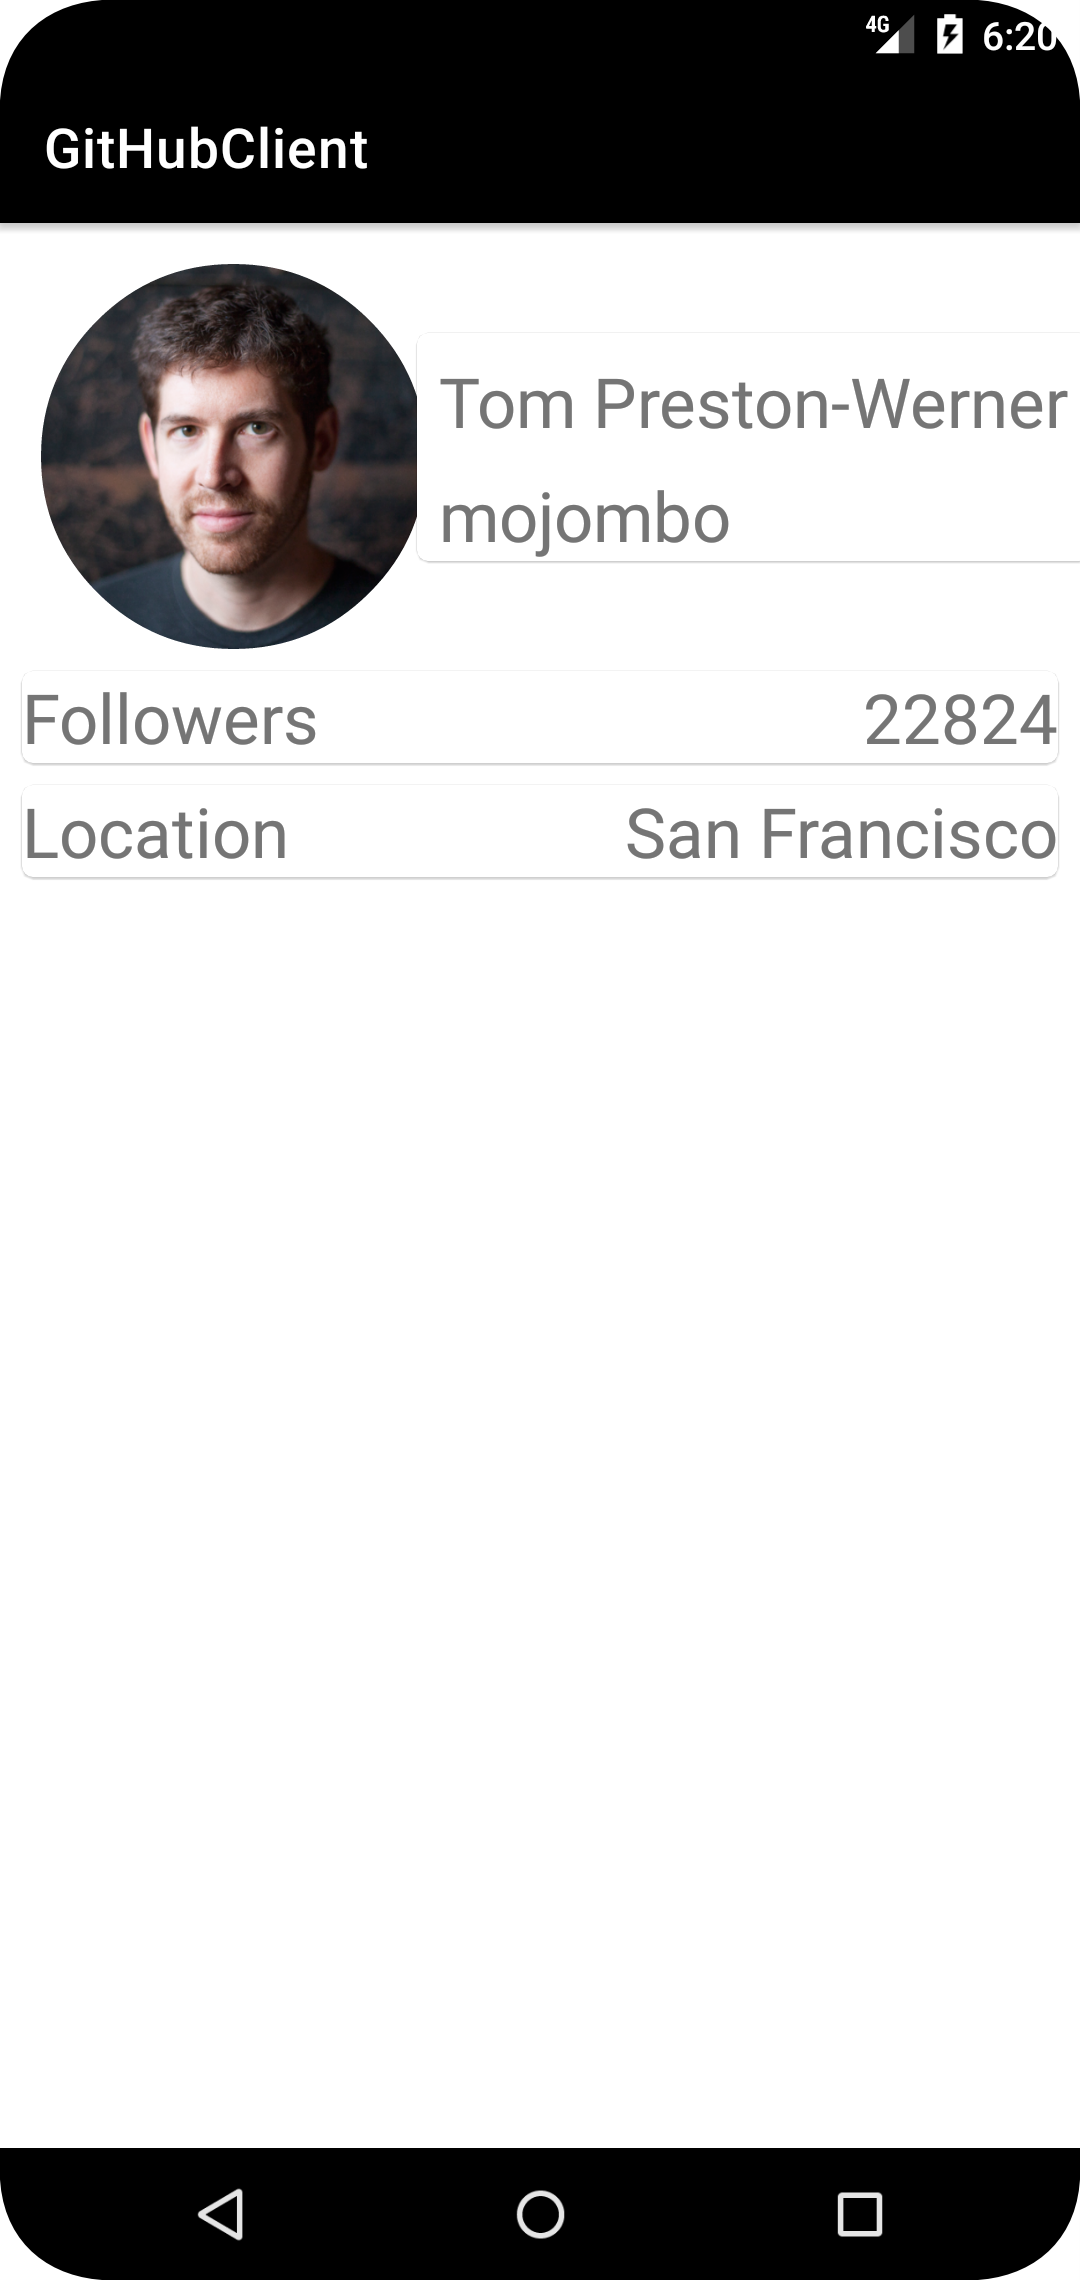
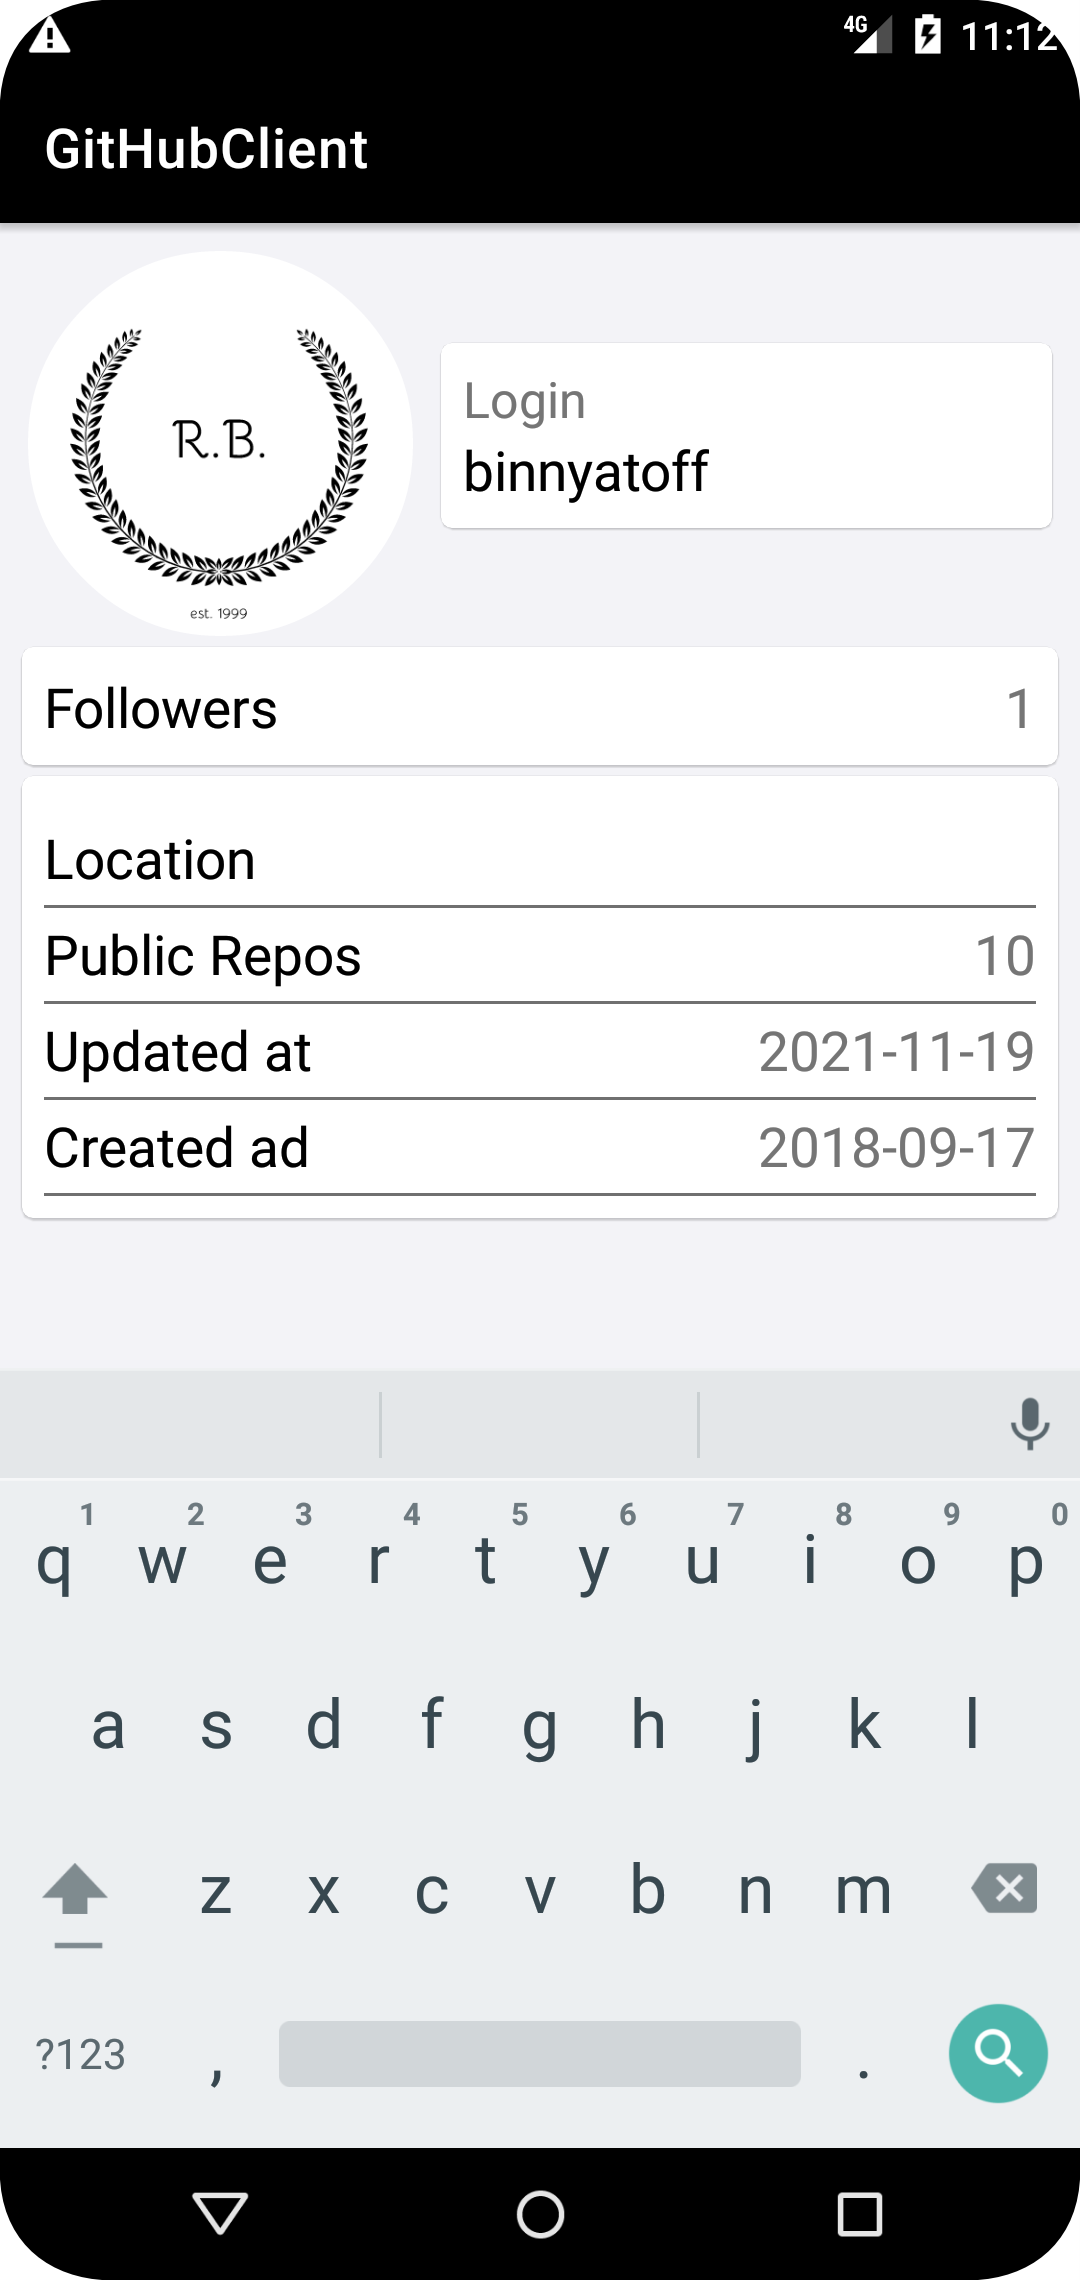
Added more information to UserDetailsFragment Added "ufo" - not found screen

diff --git a/app/src/main/java/ru/binnyatoff/githubclient/screens/feed/UsersFragment.kt b/app/src/main/java/ru/binnyatoff/githubclient/screens/feed/UsersFragment.kt
@@ -1,7 +1,6 @@
 package ru.binnyatoff.githubclient.screens.feed
 
 import android.os.Bundle
-import android.util.Log
 import android.view.*
 import android.widget.LinearLayout
 import androidx.fragment.app.Fragment
@@ -13,17 +12,17 @@ import androidx.navigation.fragment.findNavController
 import androidx.recyclerview.widget.LinearLayoutManager
 import androidx.recyclerview.widget.RecyclerView
 import dagger.hilt.android.AndroidEntryPoint
-import ru.binnyatoff.githubclient.models.User
+import ru.binnyatoff.githubclient.data.models.User
 import android.widget.SearchView
 import androidx.swiperefreshlayout.widget.SwipeRefreshLayout
 import ru.binnyatoff.githubclient.R
-import ru.binnyatoff.githubclient.screens.feed.adapter.UsersAdapter
-import ru.binnyatoff.githubclient.screens.feed.adapter.ClickDelegate
+import ru.binnyatoff.githubclient.screens.adapter.Adapter
+import ru.binnyatoff.githubclient.screens.adapter.ClickDelegate
 
 @AndroidEntryPoint
 class UsersFragment : Fragment(R.layout.fragment_users) {
     private val usersViewModel: UsersViewModel by viewModels()
-    private val adapter = UsersAdapter()
+    private val adapter = Adapter()
 
     override fun onViewCreated(view: View, savedInstanceState: Bundle?) {
         super.onViewCreated(view, savedInstanceState)
@@ -36,16 +35,18 @@ class UsersFragment : Fragment(R.layout.fragment_users) {
         swiper.setOnRefreshListener {
             usersViewModel.refreshUsers()
         }
-
-        observers(progressCircular, swiper, ufo)
         recyclerView(recyclerView)
+        observers(progressCircular, swiper, ufo, recyclerView)
     }
 
     private fun recyclerView(recyclerView: RecyclerView) {
         adapter.attachDelegate(object : ClickDelegate {
             override fun onClick(currentUser: User) {
                 val bundle = bundleOf("currentUser" to currentUser)
-                findNavController().navigate(R.id.action_UsersFragment_to_UserDetailFragment, bundle)
+                findNavController().navigate(
+                    R.id.action_UsersFragment_to_UserDetailFragment,
+                    bundle
+                )
             }
         })
         recyclerView.adapter = adapter
@@ -55,7 +56,8 @@ class UsersFragment : Fragment(R.layout.fragment_users) {
     private fun observers(
         progressCircular: ProgressBar,
         swiper: SwipeRefreshLayout,
-        ufo: LinearLayout
+        ufo: LinearLayout,
+        recyclerView: RecyclerView
     ) {
         usersViewModel.userList.observe(viewLifecycleOwner) {
             adapter.setData(it)
@@ -63,10 +65,14 @@ class UsersFragment : Fragment(R.layout.fragment_users) {
         }
 
         usersViewModel.searchList.observe(viewLifecycleOwner) {
-            adapter.setData(it.items)
             swiper.isRefreshing = false
-            if (it.items.isEmpty()){
+            if (it.items.isEmpty()) {
                 ufo.visibility = View.VISIBLE
+                recyclerView.visibility = View.GONE
+            } else {
+                ufo.visibility = View.GONE
+                recyclerView.visibility = View.VISIBLE
+                adapter.setData(it.items)
             }
         }
 

diff --git a/app/src/main/java/ru/binnyatoff/githubclient/screens/details/UserDetailsFragment.kt b/app/src/main/java/ru/binnyatoff/githubclient/screens/details/UserDetailsFragment.kt
@@ -1,5 +1,6 @@
 package ru.binnyatoff.githubclient.screens.details
 
+import android.annotation.SuppressLint
 import android.os.Bundle
 import android.view.View
 import android.widget.ImageView
@@ -14,7 +15,7 @@ import com.bumptech.glide.Glide
 import com.google.android.material.card.MaterialCardView
 import dagger.hilt.android.AndroidEntryPoint
 import ru.binnyatoff.githubclient.R
-import ru.binnyatoff.githubclient.models.User
+import ru.binnyatoff.githubclient.data.models.User
 
 @AndroidEntryPoint
 class UserDetailsFragment : Fragment(R.layout.fragment_user_details) {
@@ -28,7 +29,6 @@ class UserDetailsFragment : Fragment(R.layout.fragment_user_details) {
 
         val login: TextView = view.findViewById(R.id.user_login)
         val avatar: ImageView = view.findViewById(R.id.avatar)
-        val followers: CardView = view.findViewById(R.id.card_followers)
         val followers_amount: TextView = view.findViewById(R.id.followers_amount)
         val location: TextView = view.findViewById(R.id.location)
         val user_name: TextView = view.findViewById(R.id.user_name)
@@ -37,11 +37,16 @@ class UserDetailsFragment : Fragment(R.layout.fragment_user_details) {
         val card: MaterialCardView = view.findViewById(R.id.card)
         val card_followers: MaterialCardView = view.findViewById(R.id.card_followers)
         val card_location: MaterialCardView = view.findViewById(R.id.card_location)
-
+        val public_repos: TextView = view.findViewById(R.id.public_repos)
+        val updated: TextView = view.findViewById(R.id.updated)
+        val created: TextView = view.findViewById(R.id.created)
 
         val bundle = bundleOf("user" to currentUser?.login)
-        followers.setOnClickListener {
-            findNavController().navigate(R.id.action_UserDetailFragment_to_FollowersFragment, bundle)
+        card_followers.setOnClickListener {
+            findNavController().navigate(
+                R.id.action_UserDetailFragment_to_FollowersFragment,
+                bundle
+            )
         }
 
         fun name_null(name: String) {
@@ -54,12 +59,15 @@ class UserDetailsFragment : Fragment(R.layout.fragment_user_details) {
         }//Бывают аккаунты без имени
 
         userDetailsViewModel.userDetails.observe(viewLifecycleOwner) {
-
             followers_amount.text = it.followers.toString()
             location.text = it.location
-            name_null(it.name)
             login.text = it.login
+            public_repos.text = it.public_repos.toString()
+            updated.text = it.updated_at.substring(0, 10)
+            created.text = it.created_at.substring(0, 10)
             getAvatar(view, it.avatar_url, avatar)
+            name_null(it.name)
+
 
         }
         userDetailsViewModel.errorMessage.observe(viewLifecycleOwner) {

diff --git a/app/src/main/java/ru/binnyatoff/githubclient/screens/followers/FollowersFragment.kt b/app/src/main/java/ru/binnyatoff/githubclient/screens/followers/FollowersFragment.kt
@@ -12,17 +12,17 @@ import androidx.navigation.fragment.findNavController
 import androidx.recyclerview.widget.LinearLayoutManager
 import androidx.recyclerview.widget.RecyclerView
 import dagger.hilt.android.AndroidEntryPoint
-import ru.binnyatoff.githubclient.models.User
+import ru.binnyatoff.githubclient.data.models.User
 import android.widget.SearchView
 import androidx.swiperefreshlayout.widget.SwipeRefreshLayout
 import ru.binnyatoff.githubclient.R
-import ru.binnyatoff.githubclient.screens.feed.adapter.UsersAdapter
-import ru.binnyatoff.githubclient.screens.feed.adapter.ClickDelegate
+import ru.binnyatoff.githubclient.screens.adapter.Adapter
+import ru.binnyatoff.githubclient.screens.adapter.ClickDelegate
 
 @AndroidEntryPoint
 class FollowersFragment : Fragment(R.layout.fragment_users) {
     private val followersViewModel: FollowersViewModel by viewModels()
-    private val adapter = UsersAdapter()
+    private val adapter = Adapter()
 
     override fun onViewCreated(view: View, savedInstanceState: Bundle?) {
         super.onViewCreated(view, savedInstanceState)
@@ -32,7 +32,7 @@ class FollowersFragment : Fragment(R.layout.fragment_users) {
         val user: String = arguments?.get("user").toString()
         val ufo = view.findViewById<LinearLayout>(R.id.ufo)
         val swiper: SwipeRefreshLayout = view.findViewById(R.id.swiper)//swipe to refresh
-        observers(progressCircular, adapter, ufo, swiper)
+        observers(progressCircular, ufo, swiper)
         recyclerView(recyclerView)
         followersViewModel.getFollowers(user)
         swiper.setOnRefreshListener {
@@ -53,16 +53,15 @@ class FollowersFragment : Fragment(R.layout.fragment_users) {
 
     private fun observers(
         progressCircular: ProgressBar,
-        adapter: UsersAdapter,
         ufo: LinearLayout,
         swiper: SwipeRefreshLayout
     ) {
         followersViewModel.userList.observe(viewLifecycleOwner) {
+            swiper.isRefreshing = false
             if (it.isEmpty()) {
                 ufo.visibility = View.VISIBLE
-                swiper.isRefreshing = false
             } else {
-                swiper.isRefreshing = false
+                ufo.visibility = View.GONE
                 adapter.setData(it)
             }
         }
@@ -73,11 +72,10 @@ class FollowersFragment : Fragment(R.layout.fragment_users) {
 
         followersViewModel.loading.observe(viewLifecycleOwner) {
             if (!it) {
-                swiper.isRefreshing = false
+                swiper.isRefreshing = it
                 progressCircular.visibility = View.GONE
             }
         }
-
     }
 
     override fun onCreateOptionsMenu(menu: Menu, inflater: MenuInflater) {

diff --git a/app/src/main/java/ru/binnyatoff/githubclient/screens/adapter/Adapter.kt b/app/src/main/java/ru/binnyatoff/githubclient/screens/adapter/Adapter.kt
@@ -1,4 +1,4 @@
-package ru.binnyatoff.githubclient.screens.feed.adapter
+package ru.binnyatoff.githubclient.screens.adapter
 
 import android.annotation.SuppressLint
 import android.view.LayoutInflater
@@ -6,12 +6,12 @@ import android.view.ViewGroup
 import android.widget.Filter
 import android.widget.Filterable
 import androidx.recyclerview.widget.RecyclerView
-import ru.binnyatoff.githubclient.models.User
+import ru.binnyatoff.githubclient.data.models.User
 import ru.binnyatoff.githubclient.R
 import java.util.*
 import kotlin.collections.ArrayList
 
-class UsersAdapter : RecyclerView.Adapter<ViewHolder>(), Filterable {
+class Adapter : RecyclerView.Adapter<ViewHolder>(), Filterable {
 
     private var usersList = emptyList<User>()
     private var usersFilterList = emptyList<User>()

diff --git a/app/src/main/java/ru/binnyatoff/githubclient/screens/feed/UsersViewModel.kt b/app/src/main/java/ru/binnyatoff/githubclient/screens/feed/UsersViewModel.kt
@@ -6,10 +6,10 @@ import dagger.hilt.android.lifecycle.HiltViewModel
 import kotlinx.coroutines.CoroutineScope
 import kotlinx.coroutines.Dispatchers
 import kotlinx.coroutines.launch
-import ru.binnyatoff.githubclient.models.Search
-import ru.binnyatoff.githubclient.retrofit.Api
-import ru.binnyatoff.githubclient.models.User
-import ru.binnyatoff.githubclient.room.Dao
+import ru.binnyatoff.githubclient.data.models.Search
+import ru.binnyatoff.githubclient.data.retrofit.Api
+import ru.binnyatoff.githubclient.data.models.User
+import ru.binnyatoff.githubclient.data.room.Dao
 import javax.inject.Inject
 
 @HiltViewModel

diff --git a/app/src/main/java/ru/binnyatoff/githubclient/data/retrofit/Api.kt b/app/src/main/java/ru/binnyatoff/githubclient/data/retrofit/Api.kt
@@ -1,12 +1,12 @@
-package ru.binnyatoff.githubclient.retrofit
+package ru.binnyatoff.githubclient.data.retrofit
 
 import retrofit2.Response
 import retrofit2.http.GET
 import retrofit2.http.Path
 import retrofit2.http.Query
-import ru.binnyatoff.githubclient.models.User
-import ru.binnyatoff.githubclient.models.User_Details
-import ru.binnyatoff.githubclient.models.Search
+import ru.binnyatoff.githubclient.data.models.User
+import ru.binnyatoff.githubclient.data.models.User_Details
+import ru.binnyatoff.githubclient.data.models.Search
 
 interface Api {
     @GET("./users")

diff --git a/app/src/main/java/ru/binnyatoff/githubclient/screens/adapter/ViewHolder.kt b/app/src/main/java/ru/binnyatoff/githubclient/screens/adapter/ViewHolder.kt
@@ -1,4 +1,4 @@
-package ru.binnyatoff.githubclient.screens.feed.adapter
+package ru.binnyatoff.githubclient.screens.adapter
 
 import android.content.Context
 import android.view.View
@@ -7,7 +7,7 @@ import android.widget.TextView
 import androidx.recyclerview.widget.RecyclerView
 import com.bumptech.glide.Glide
 import ru.binnyatoff.githubclient.R
-import ru.binnyatoff.githubclient.models.User
+import ru.binnyatoff.githubclient.data.models.User
 
 class ViewHolder(itemView: View, private val delegate: ClickDelegate?) :
     RecyclerView.ViewHolder(itemView) {

diff --git a/app/src/main/java/ru/binnyatoff/githubclient/di/Module.kt b/app/src/main/java/ru/binnyatoff/githubclient/di/Module.kt
@@ -11,9 +11,9 @@ import okhttp3.OkHttpClient
 import okhttp3.logging.HttpLoggingInterceptor
 import retrofit2.Retrofit
 import retrofit2.converter.gson.GsonConverterFactory
-import ru.binnyatoff.githubclient.retrofit.Api
-import ru.binnyatoff.githubclient.room.Dao
-import ru.binnyatoff.githubclient.room.GitDatabase
+import ru.binnyatoff.githubclient.data.retrofit.Api
+import ru.binnyatoff.githubclient.data.room.Dao
+import ru.binnyatoff.githubclient.data.room.GitDatabase
 import javax.inject.Singleton
 
 @Module

diff --git a/app/src/main/java/ru/binnyatoff/githubclient/screens/details/UserDetailsViewModel.kt b/app/src/main/java/ru/binnyatoff/githubclient/screens/details/UserDetailsViewModel.kt
@@ -7,8 +7,8 @@ import dagger.hilt.android.lifecycle.HiltViewModel
 import kotlinx.coroutines.CoroutineScope
 import kotlinx.coroutines.Dispatchers
 import kotlinx.coroutines.launch
-import ru.binnyatoff.githubclient.retrofit.Api
-import ru.binnyatoff.githubclient.models.User_Details
+import ru.binnyatoff.githubclient.data.retrofit.Api
+import ru.binnyatoff.githubclient.data.models.User_Details
 import javax.inject.Inject
 
 @HiltViewModel

diff --git a/app/src/main/java/ru/binnyatoff/githubclient/data/models/User_Details.kt b/app/src/main/java/ru/binnyatoff/githubclient/data/models/User_Details.kt
@@ -1,4 +1,4 @@
-package ru.binnyatoff.githubclient.models
+package ru.binnyatoff.githubclient.data.models
 
 import android.os.Parcelable
 import kotlinx.parcelize.Parcelize
@@ -9,5 +9,8 @@ data class User_Details(
     val followers: Int,
     val location: String,
     val login: String,
-    var name: String
+    var name: String,
+    var public_repos:Int,
+    var updated_at:String,
+    var created_at:String
 ): Parcelable

diff --git a/app/src/main/java/ru/binnyatoff/githubclient/screens/followers/FollowersViewModel.kt b/app/src/main/java/ru/binnyatoff/githubclient/screens/followers/FollowersViewModel.kt
@@ -6,8 +6,8 @@ import dagger.hilt.android.lifecycle.HiltViewModel
 import kotlinx.coroutines.CoroutineScope
 import kotlinx.coroutines.Dispatchers
 import kotlinx.coroutines.launch
-import ru.binnyatoff.githubclient.retrofit.Api
-import ru.binnyatoff.githubclient.models.User
+import ru.binnyatoff.githubclient.data.retrofit.Api
+import ru.binnyatoff.githubclient.data.models.User
 import javax.inject.Inject
 
 

diff --git a/app/src/main/java/ru/binnyatoff/githubclient/data/room/Dao.kt b/app/src/main/java/ru/binnyatoff/githubclient/data/room/Dao.kt
@@ -1,11 +1,11 @@
-package ru.binnyatoff.githubclient.room
+package ru.binnyatoff.githubclient.data.room
 
 import androidx.lifecycle.LiveData
 import androidx.room.Dao
 import androidx.room.Insert
 import androidx.room.OnConflictStrategy
 import androidx.room.Query
-import ru.binnyatoff.githubclient.models.User
+import ru.binnyatoff.githubclient.data.models.User
 
 @Dao
 interface Dao {
